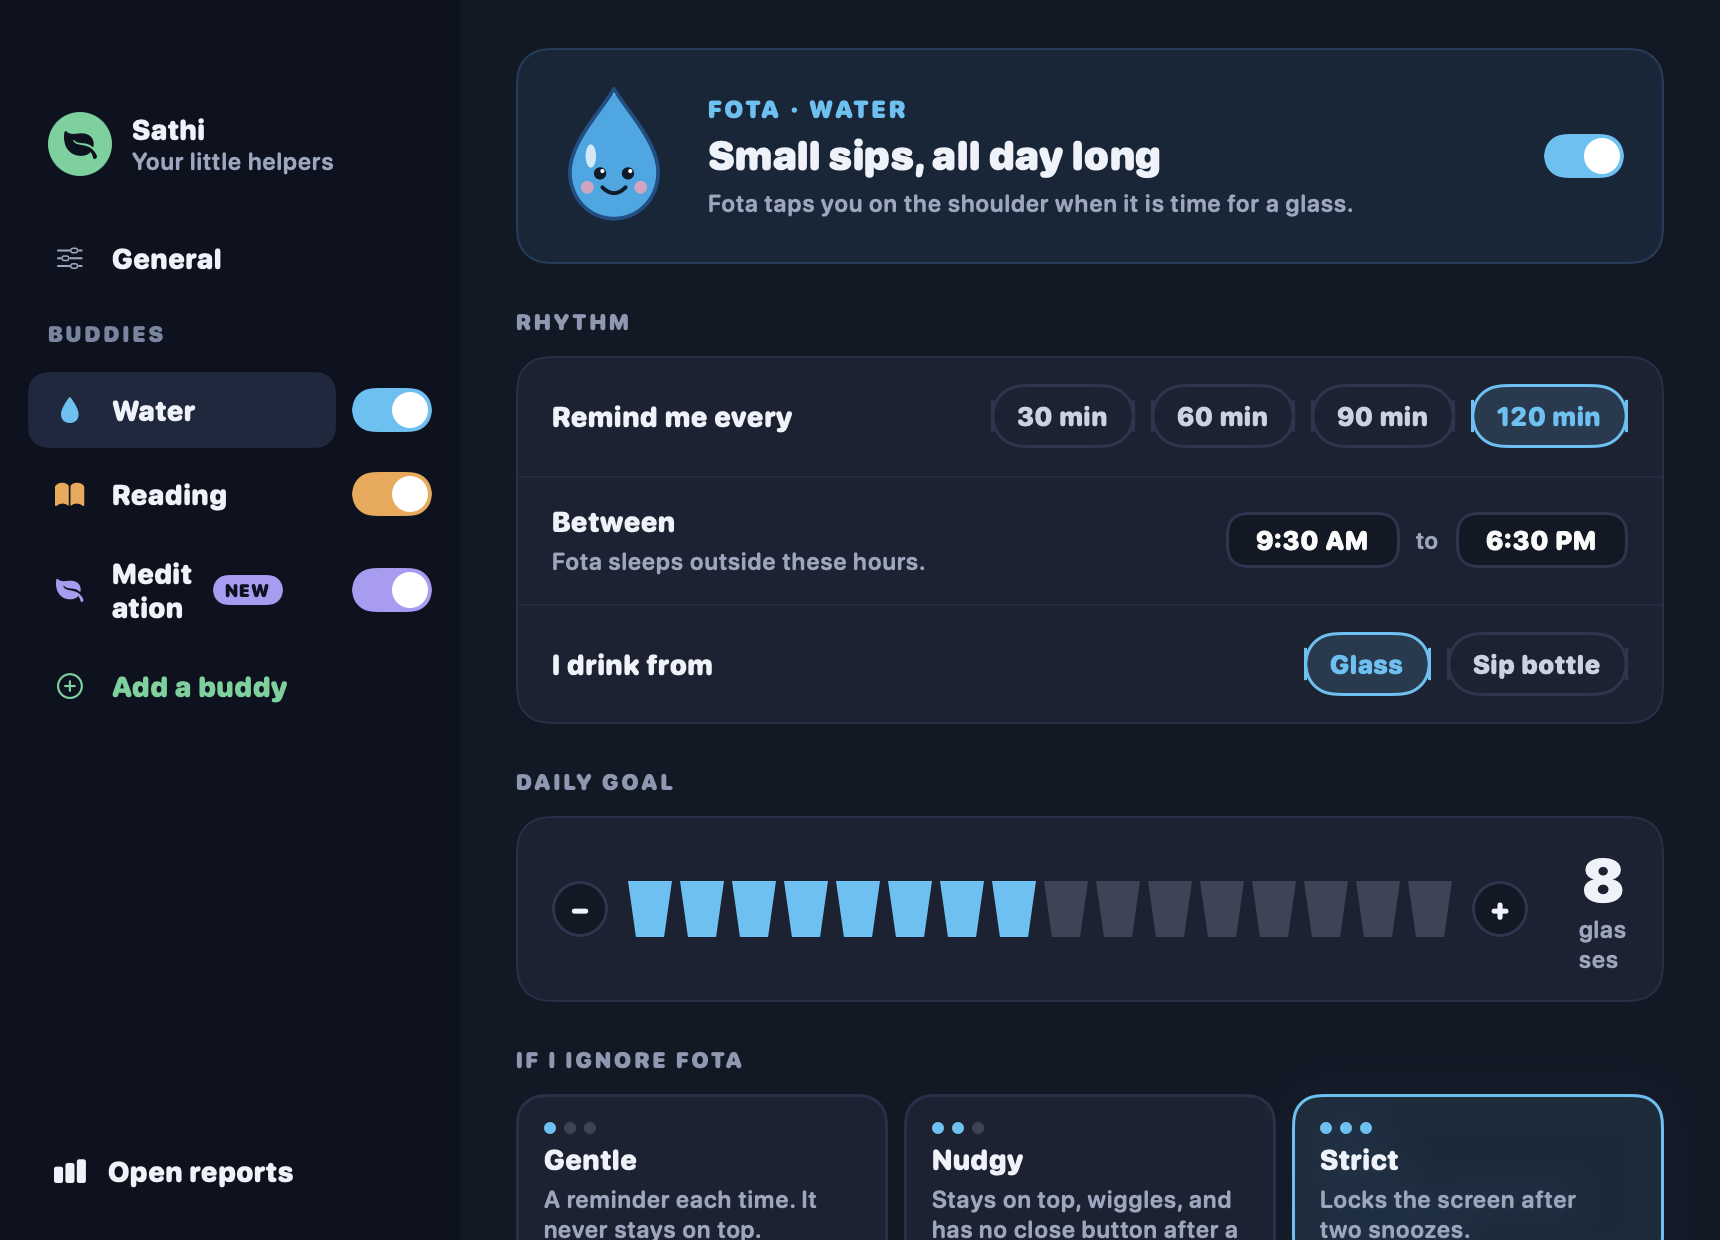
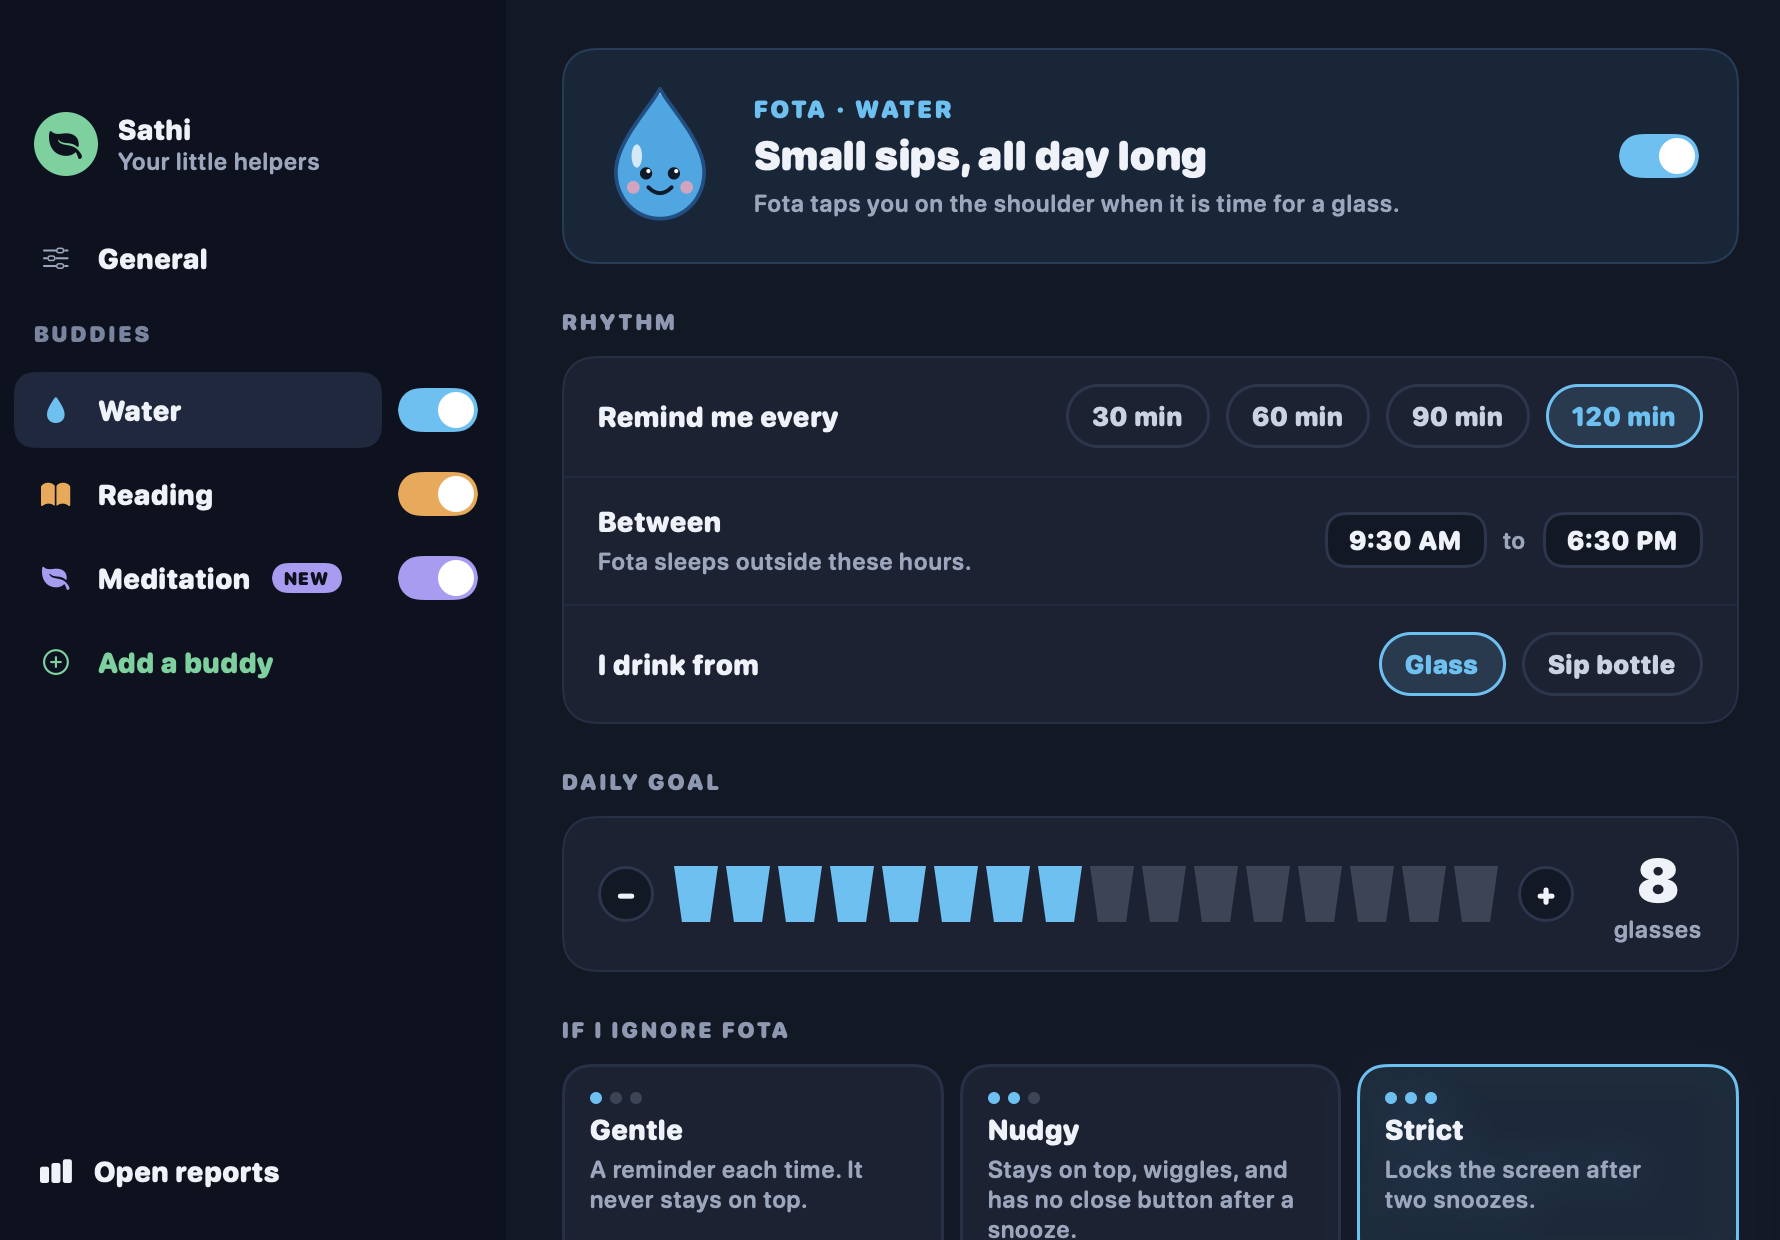
docs(site): describe independent buddies and the meditation goal
README, website, and changelog now describe the meditation daily goal, interval, and hours (no slots), Strict for meditation with one lock at a time, stacked independent reminders, and the 15-minute time picker. The Settings, reading timer, and snoozed note screenshots are rendered again.

diff --git a/site/index.html b/site/index.html
@@ -88,7 +88,7 @@
           {
             "@type": "Question",
             "name": "Can Sathi lock my screen?",
-            "acceptedAnswer": { "@type": "Answer", "text": "Only for water, and only if you pick Strict. After 2 snoozes a full-screen lock asks you to drink. You unlock it by holding a button for 3 seconds, and there is always an emergency skip. Reading and meditation never lock the screen." }
+            "acceptedAnswer": { "@type": "Answer", "text": "Only for water and meditation, and only if you pick Strict. After 2 snoozes a full-screen lock asks you to drink or to breathe. You unlock it by holding a button for 3 seconds, and there is always an emergency skip. Only one lock shows at a time, and reading never locks the screen." }
           },
           {
             "@type": "Question",
@@ -221,7 +221,7 @@
             </figure>
             <figure class="g-panel pos-full" role="tabpanel" id="p-water-lock" aria-labelledby="t-water-lock" hidden>
               <img src="screenshots/water-lock.png" alt="Strict full-screen lock: Fota is drying up, go get some water, with a Hold button and an Emergency skip link" width="2560" height="1600" loading="lazy" />
-              <figcaption><b>Strict lock.</b> After 2 snoozes, the screen pauses. Drink, then hold the button for 3 seconds. Emergency skip is always there. Water only.</figcaption>
+              <figcaption><b>Strict lock.</b> After 2 snoozes, the screen pauses. Drink, then hold the button for 3 seconds. Emergency skip is always there. Water and meditation.</figcaption>
             </figure>
             <figure class="g-panel pos-corner" role="tabpanel" id="p-water-thanks" aria-labelledby="t-water-thanks" style="--w: 33.9%" hidden>
               <img src="screenshots/water-thanks.png" alt="Water thank-you: Ahh, refreshing, 5 of 8 glasses today, and a See you in 2 hours button" width="976" height="746" loading="lazy" />
@@ -245,7 +245,7 @@
             </figure>
             <figure class="g-panel pos-corner" role="tabpanel" id="p-meditation" aria-labelledby="t-meditation" style="--w: 31.1%" hidden>
               <img src="screenshots/meditation.png" alt="Meditation invite from Shanti: 5 minutes of box breathing, with Breathe with me and In 5 min buttons" width="896" height="802" loading="lazy" />
-              <figcaption><b>Invite.</b> Shanti asks at the time slots you pick: morning, afternoon, or evening. It never takes focus.</figcaption>
+              <figcaption><b>Invite.</b> Shanti asks every hour between your start and end time, until you reach your daily goal. It never takes focus.</figcaption>
             </figure>
             <figure class="g-panel pos-center narrow-shot" role="tabpanel" id="p-meditation-breathe" aria-labelledby="t-meditation-breathe" style="--w: 31.1%" hidden>
               <img src="screenshots/meditation-breathe.png" alt="Box breathing session: a large circle, the word Rest, round 4 of 18, and a Stop button" width="896" height="1080" loading="lazy" />
@@ -264,7 +264,7 @@
               <figcaption><b>Reports.</b> Each habit by day, week, or month, with your best day and longest streak.</figcaption>
             </figure>
             <figure class="g-panel pos-center" role="tabpanel" id="p-settings" aria-labelledby="t-settings" style="--w: 59.7%" hidden>
-              <img src="screenshots/settings.png" alt="Water settings: reminder interval, active hours, glass or sip bottle, a daily goal of 8 glasses, and Gentle, Nudgy, or Strict" width="1720" height="1240" loading="lazy" />
+              <img src="screenshots/settings.png" alt="Water settings: reminder interval, active hours, glass or sip bottle, a daily goal of 8 glasses, and Gentle, Nudgy, or Strict" width="1780" height="1240" loading="lazy" />
               <figcaption><b>Settings.</b> One page per buddy. Times, goals, weekdays, and how firm each buddy is.</figcaption>
             </figure>
           </div>
@@ -317,12 +317,12 @@
         <div class="wrap feature">
           <div class="f-txt">
             <h3><span class="dot calm"></span>Shanti, your meditation buddy</h3>
-            <p>A guided breathing session at the time slots you pick. Off by default. Turn it on in Settings.</p>
+            <p>Short guided breathing sessions until you reach your daily goal. Off by default. Turn it on in Settings.</p>
             <ul class="checks">
               <li>Box, relax, or even breathing patterns</li>
-              <li>Morning, afternoon, and evening slots</li>
-              <li>Pick the session length and an optional chime</li>
-              <li>Never locks the screen</li>
+              <li>A daily goal of 5, 10, or 20 minutes</li>
+              <li>Sessions of 1, 2, or 5 minutes, every 30 to 120 minutes</li>
+              <li>Gentle, Nudgy, or Strict</li>
             </ul>
             <a class="more" href="#gallery" data-show="meditation-breathe">See the breathing session →</a>
           </div>
@@ -354,13 +354,13 @@
             <p>Turn a buddy on or off with one switch, and tune it to your day.</p>
             <ul class="checks">
               <li>Interval, active hours, container, and goal</li>
-              <li>Reading weekdays, meditation time slots</li>
+              <li>Reading weekdays, meditation goal and hours, times in 15-minute steps</li>
               <li>Your name, snooze length, sound, and open at login</li>
             </ul>
             <a class="more" href="#gallery" data-show="settings">See Settings →</a>
           </div>
           <div class="f-shot framed">
-            <img src="screenshots/settings.png" alt="Sathi water settings" width="1720" height="1240" loading="lazy" />
+            <img src="screenshots/settings.png" alt="Sathi water settings" width="1780" height="1240" loading="lazy" />
           </div>
         </div>
       </section>
@@ -377,7 +377,7 @@
             <tbody>
               <tr><td><b>Gentle</b></td><td>A reminder each time. It never stays on top.</td><td>Water, reading, meditation</td></tr>
               <tr><td><b>Nudgy</b></td><td>After 1 snooze: stays on top, wiggles, and has no close button.</td><td>Water, reading, meditation</td></tr>
-              <tr><td><b>Strict</b></td><td>After 1 snooze: Nudgy. After 2 snoozes: a full-screen lock. Hold 3 seconds to unlock. Emergency skip is always there.</td><td>Water only</td></tr>
+              <tr><td><b>Strict</b></td><td>After 1 snooze: Nudgy. After 2 snoozes: a full-screen lock. Hold 3 seconds to unlock. Emergency skip is always there. One lock at a time.</td><td>Water, meditation</td></tr>
               <tr><td><b>Pause</b></td><td>Stop all reminders for 30 minutes, 1 hour, or the rest of the day from the menu bar.</td><td>All</td></tr>
             </tbody>
           </table>
@@ -471,7 +471,7 @@ cd sathi-app
           </details>
           <details>
             <summary>Can Sathi lock my screen?</summary>
-            <p>Only for water, and only if you pick Strict. After 2 snoozes a full-screen lock asks you to drink. You unlock it by holding a button for 3 seconds, and there is always an emergency skip. Reading and meditation never lock the screen.</p>
+            <p>Only for water and meditation, and only if you pick Strict. After 2 snoozes a full-screen lock asks you to drink or to breathe. You unlock it by holding a button for 3 seconds, and there is always an emergency skip. Only one lock shows at a time, and reading never locks the screen.</p>
           </details>
           <details>
             <summary>Does Sathi slow down my Mac?</summary>

diff --git a/Tests/SathiUITests/WebsiteShots.swift b/Tests/SathiUITests/WebsiteShots.swift
@@ -61,7 +61,7 @@ struct WebsiteShots {
 
     @Test func settings() throws {
         let h = harness()
-        try save(SettingsView(tab: .habit(.water)), "settings", h)
+        try save(SettingsView(tab: .habit(.water)).frame(height: UIMetrics.settingsSize.height), "settings", h)
     }
 
     @Test func reports() throws {

diff --git a/README.md b/README.md
@@ -39,7 +39,7 @@ To see a reminder right away, open Settings, pick a buddy, and click **Show a re
 
 - **Fota** (water): a reminder every 2 hours between 9:30 and 18:30. Log a few sips, half, or a full glass, or drag the line on your sip bottle. The daily goal is 8 glasses.
 - **Boi** (reading): a small popup in the top-right corner at 22:00. It never takes focus from your work. Start a 15-minute timer, and Boi counts the minutes. Pick the days of the week.
-- **Shanti** (meditation, off by default): a guided breathing session (box, relax, or even) in the morning, afternoon, or evening.
+- **Shanti** (meditation, off by default): short guided breathing sessions (box, relax, or even). Pick a daily goal of 5, 10, or 20 minutes. Shanti reminds you every hour between 9:00 and 21:00 and stops for the day when you reach the goal.
 
 <p align="center">
   <img src="https://raw.githubusercontent.com/Sumonta056/sathi-app/main/site/screenshots/water-bubble.png" alt="Water reminder bubble with buttons for a few sips, half, and a full glass" width="440" />
@@ -54,9 +54,9 @@ If you ignore a reminder, it gets firmer, step by step:
 |---|---|
 | Gentle | A reminder each time. It never stays on top. |
 | Nudgy | After 1 snooze, the reminder stays on top and wiggles. |
-| Strict (water only) | After 2 snoozes, a full-screen lock. Hold a button for 3 seconds to unlock. An emergency skip is always there. |
+| Strict (water and meditation) | After 2 snoozes, a full-screen lock. Hold a button for 3 seconds to unlock. An emergency skip is always there. |
 
-Reading and meditation never lock the screen. The menu bar popover can pause all reminders for 30 minutes, 1 hour, or the rest of the day.
+Reading never locks the screen, and only one lock shows at a time. Each buddy reminds you on its own, so two reminders can show at once: they stack in the top-right corner of the display with your mouse pointer. The menu bar popover can pause all reminders for 30 minutes, 1 hour, or the rest of the day.
 
 <p align="center">
   <img src="https://raw.githubusercontent.com/Sumonta056/sathi-app/main/site/screenshots/water-nudgy.png" alt="Nudgy water reminder after 1 snooze, with no close button" width="400" />
@@ -68,7 +68,7 @@ See [every reminder on the website](https://sumonta056.github.io/sathi-app/#gall
 ## Reports and settings
 
 - The Reports window shows each habit by day, week, or month, with a chart, a streak calendar, your best day, and your longest streak.
-- Each buddy has its own Settings page. Water: interval, active hours, container, goal, strictness. Reading: time, weekdays, session length, style, strictness. Meditation: time slots, session length, breathing style, chime.
+- Each buddy has its own Settings page. Water: interval, active hours, container, goal, strictness. Reading: time, weekdays, session length, style, strictness. Meditation: daily goal, session length, interval, active hours, breathing style, chime, strictness. You pick times in 15-minute steps.
 - The General tab holds your name, snooze length, when no answer counts as a snooze, sound, and open at login.
 
 <p align="center">

diff --git a/CHANGELOG.md b/CHANGELOG.md
@@ -4,6 +4,21 @@ All user-visible changes to Sathi. Each version has a tag `vX.Y.Z` and a GitHub 
 
 ## [Unreleased]
 
+### Added
+
+- Meditation has a daily goal (5, 10, or 20 minutes), short sessions (1, 2, or 5 minutes), a reminder interval, and active hours. Shanti stops for the day when you reach the goal. The morning, afternoon, and evening slots are gone; your old goal stays.
+- Meditation can use Strict: after 2 snoozes, a full-screen lock starts a breathing session.
+- A new time picker: hours, minutes in 15-minute steps, and AM or PM, in one small popover.
+
+### Changed
+
+- Each buddy reminds you on its own. Two reminders can show at once, stacked in the top-right corner of the display with your mouse pointer. Only one lock shows at a time.
+
+### Fixed
+
+- On macOS 27, no reminder showed, and "Show a reminder now" did nothing.
+- Settings: chips, the sidebar, and the daily goal no longer wrap or clip, option cards have the same height, and the window has no empty strip at the bottom.
+
 ## [2.0.1] - 2026-10-25
 
 ### Added
